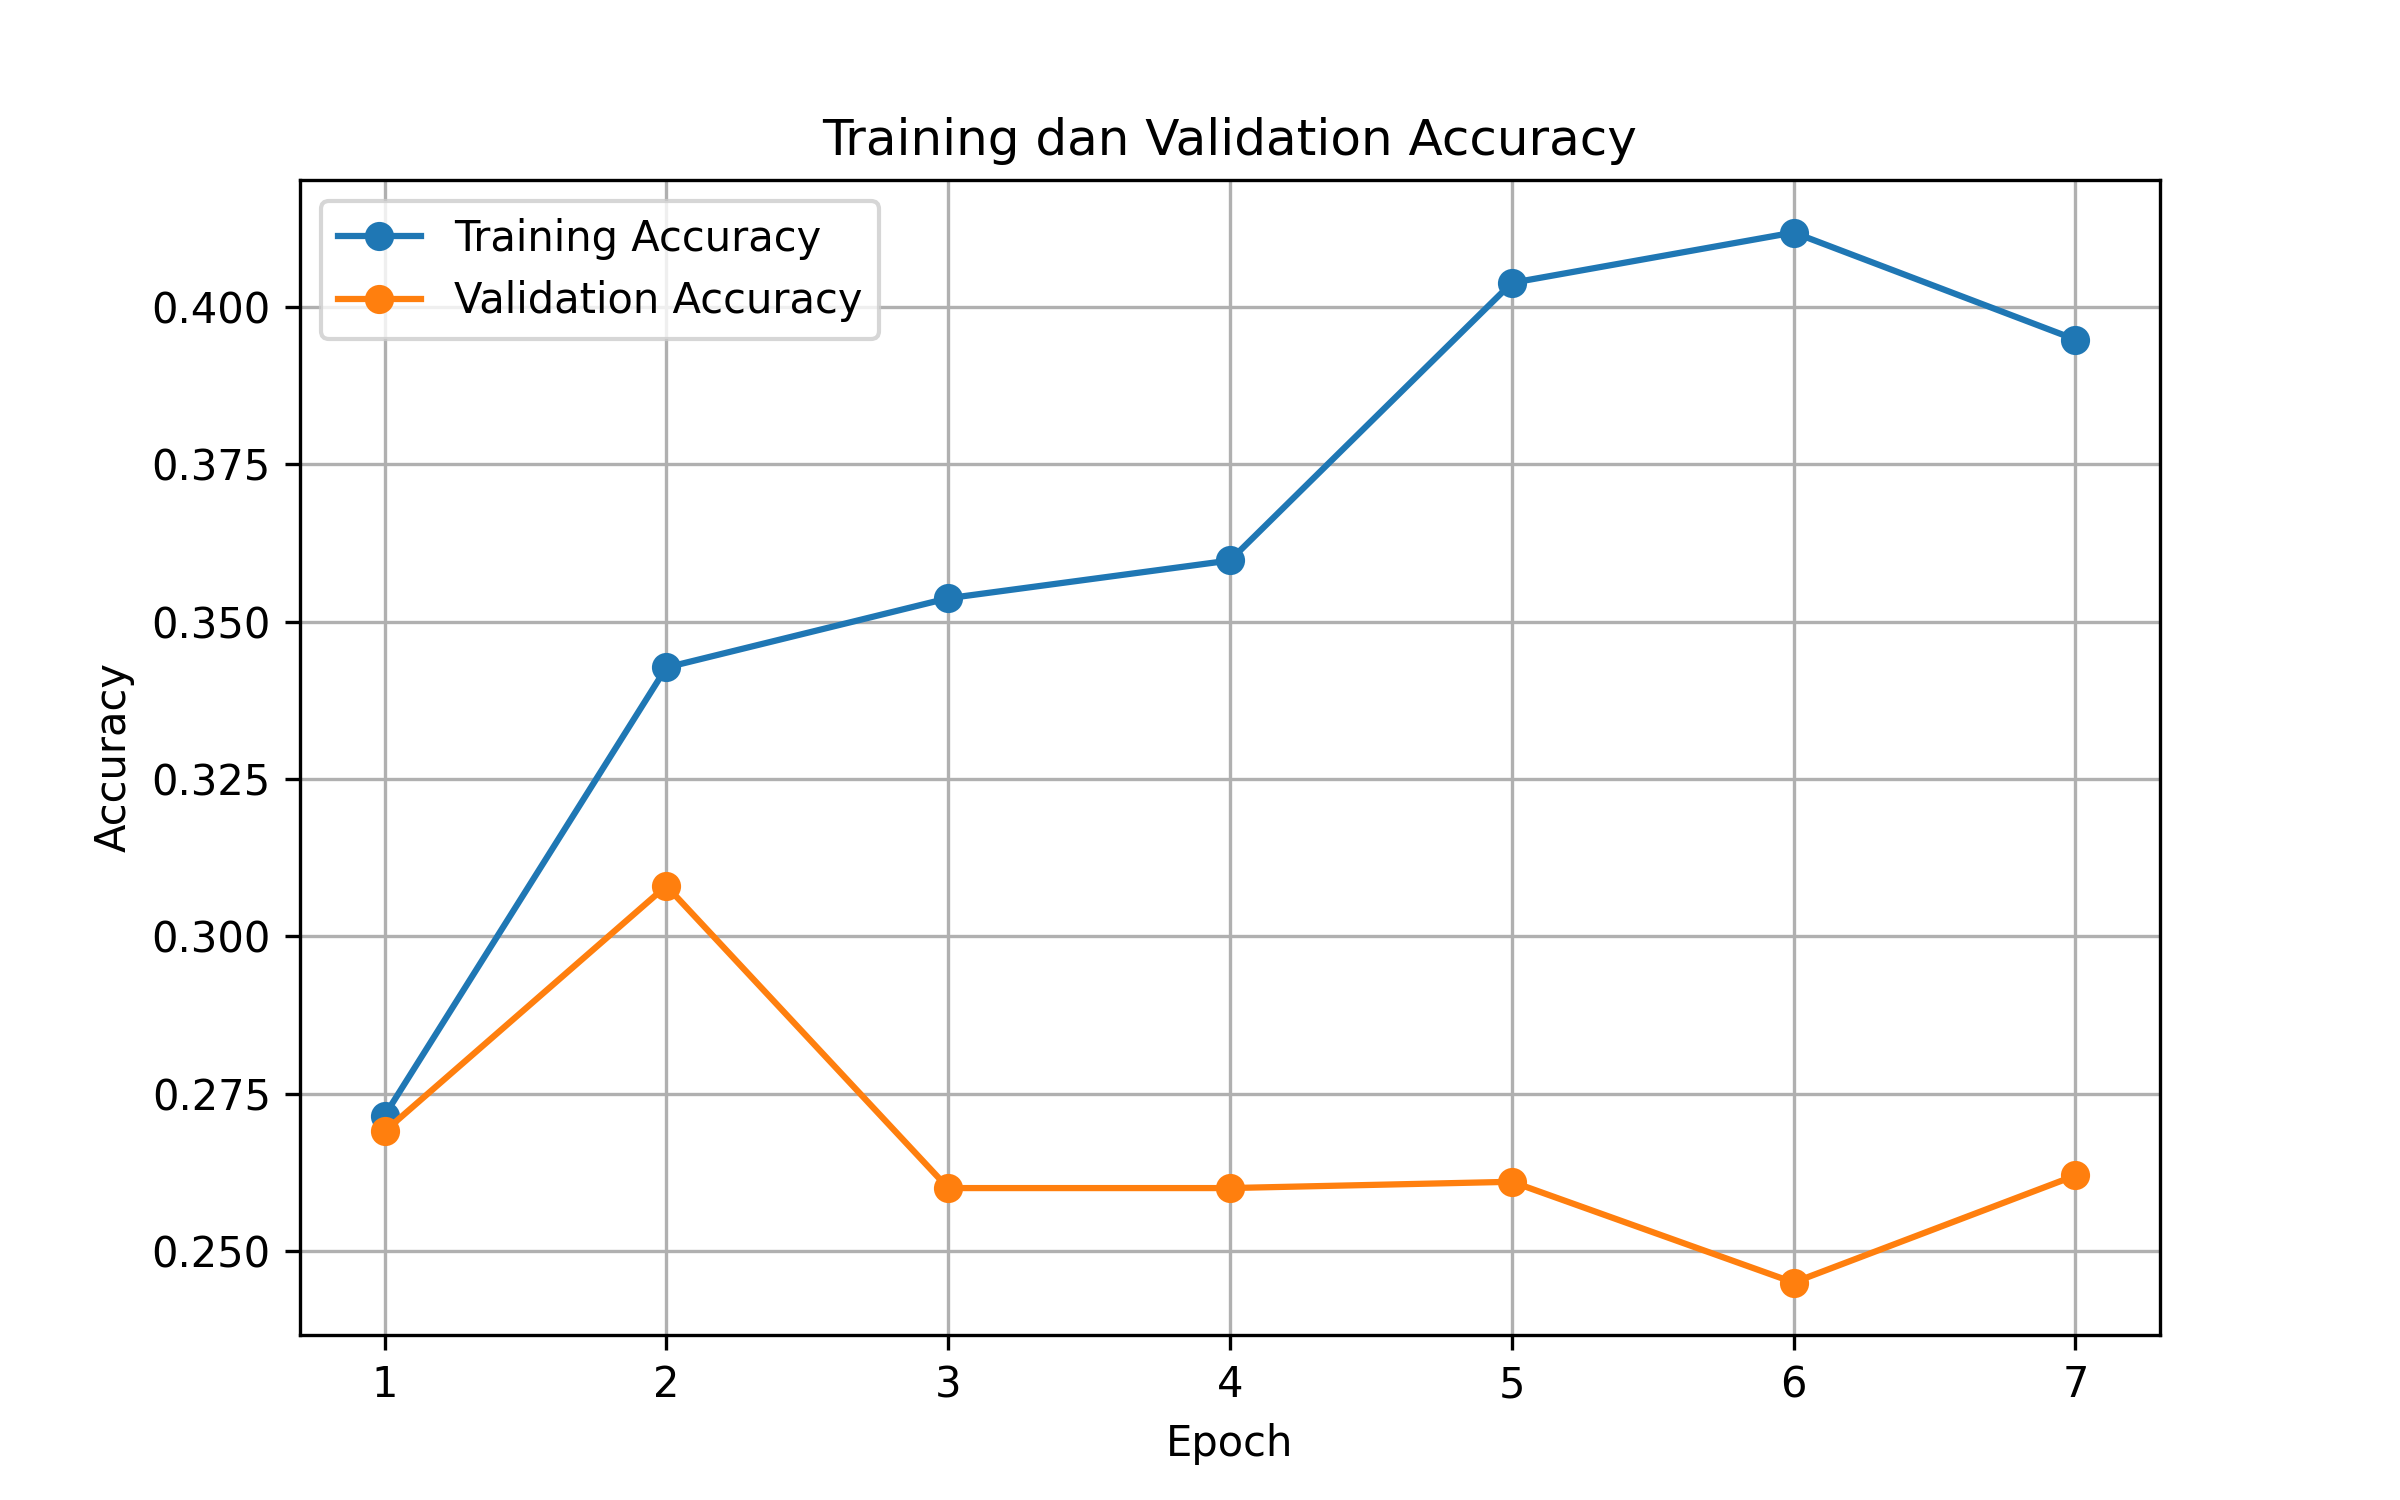
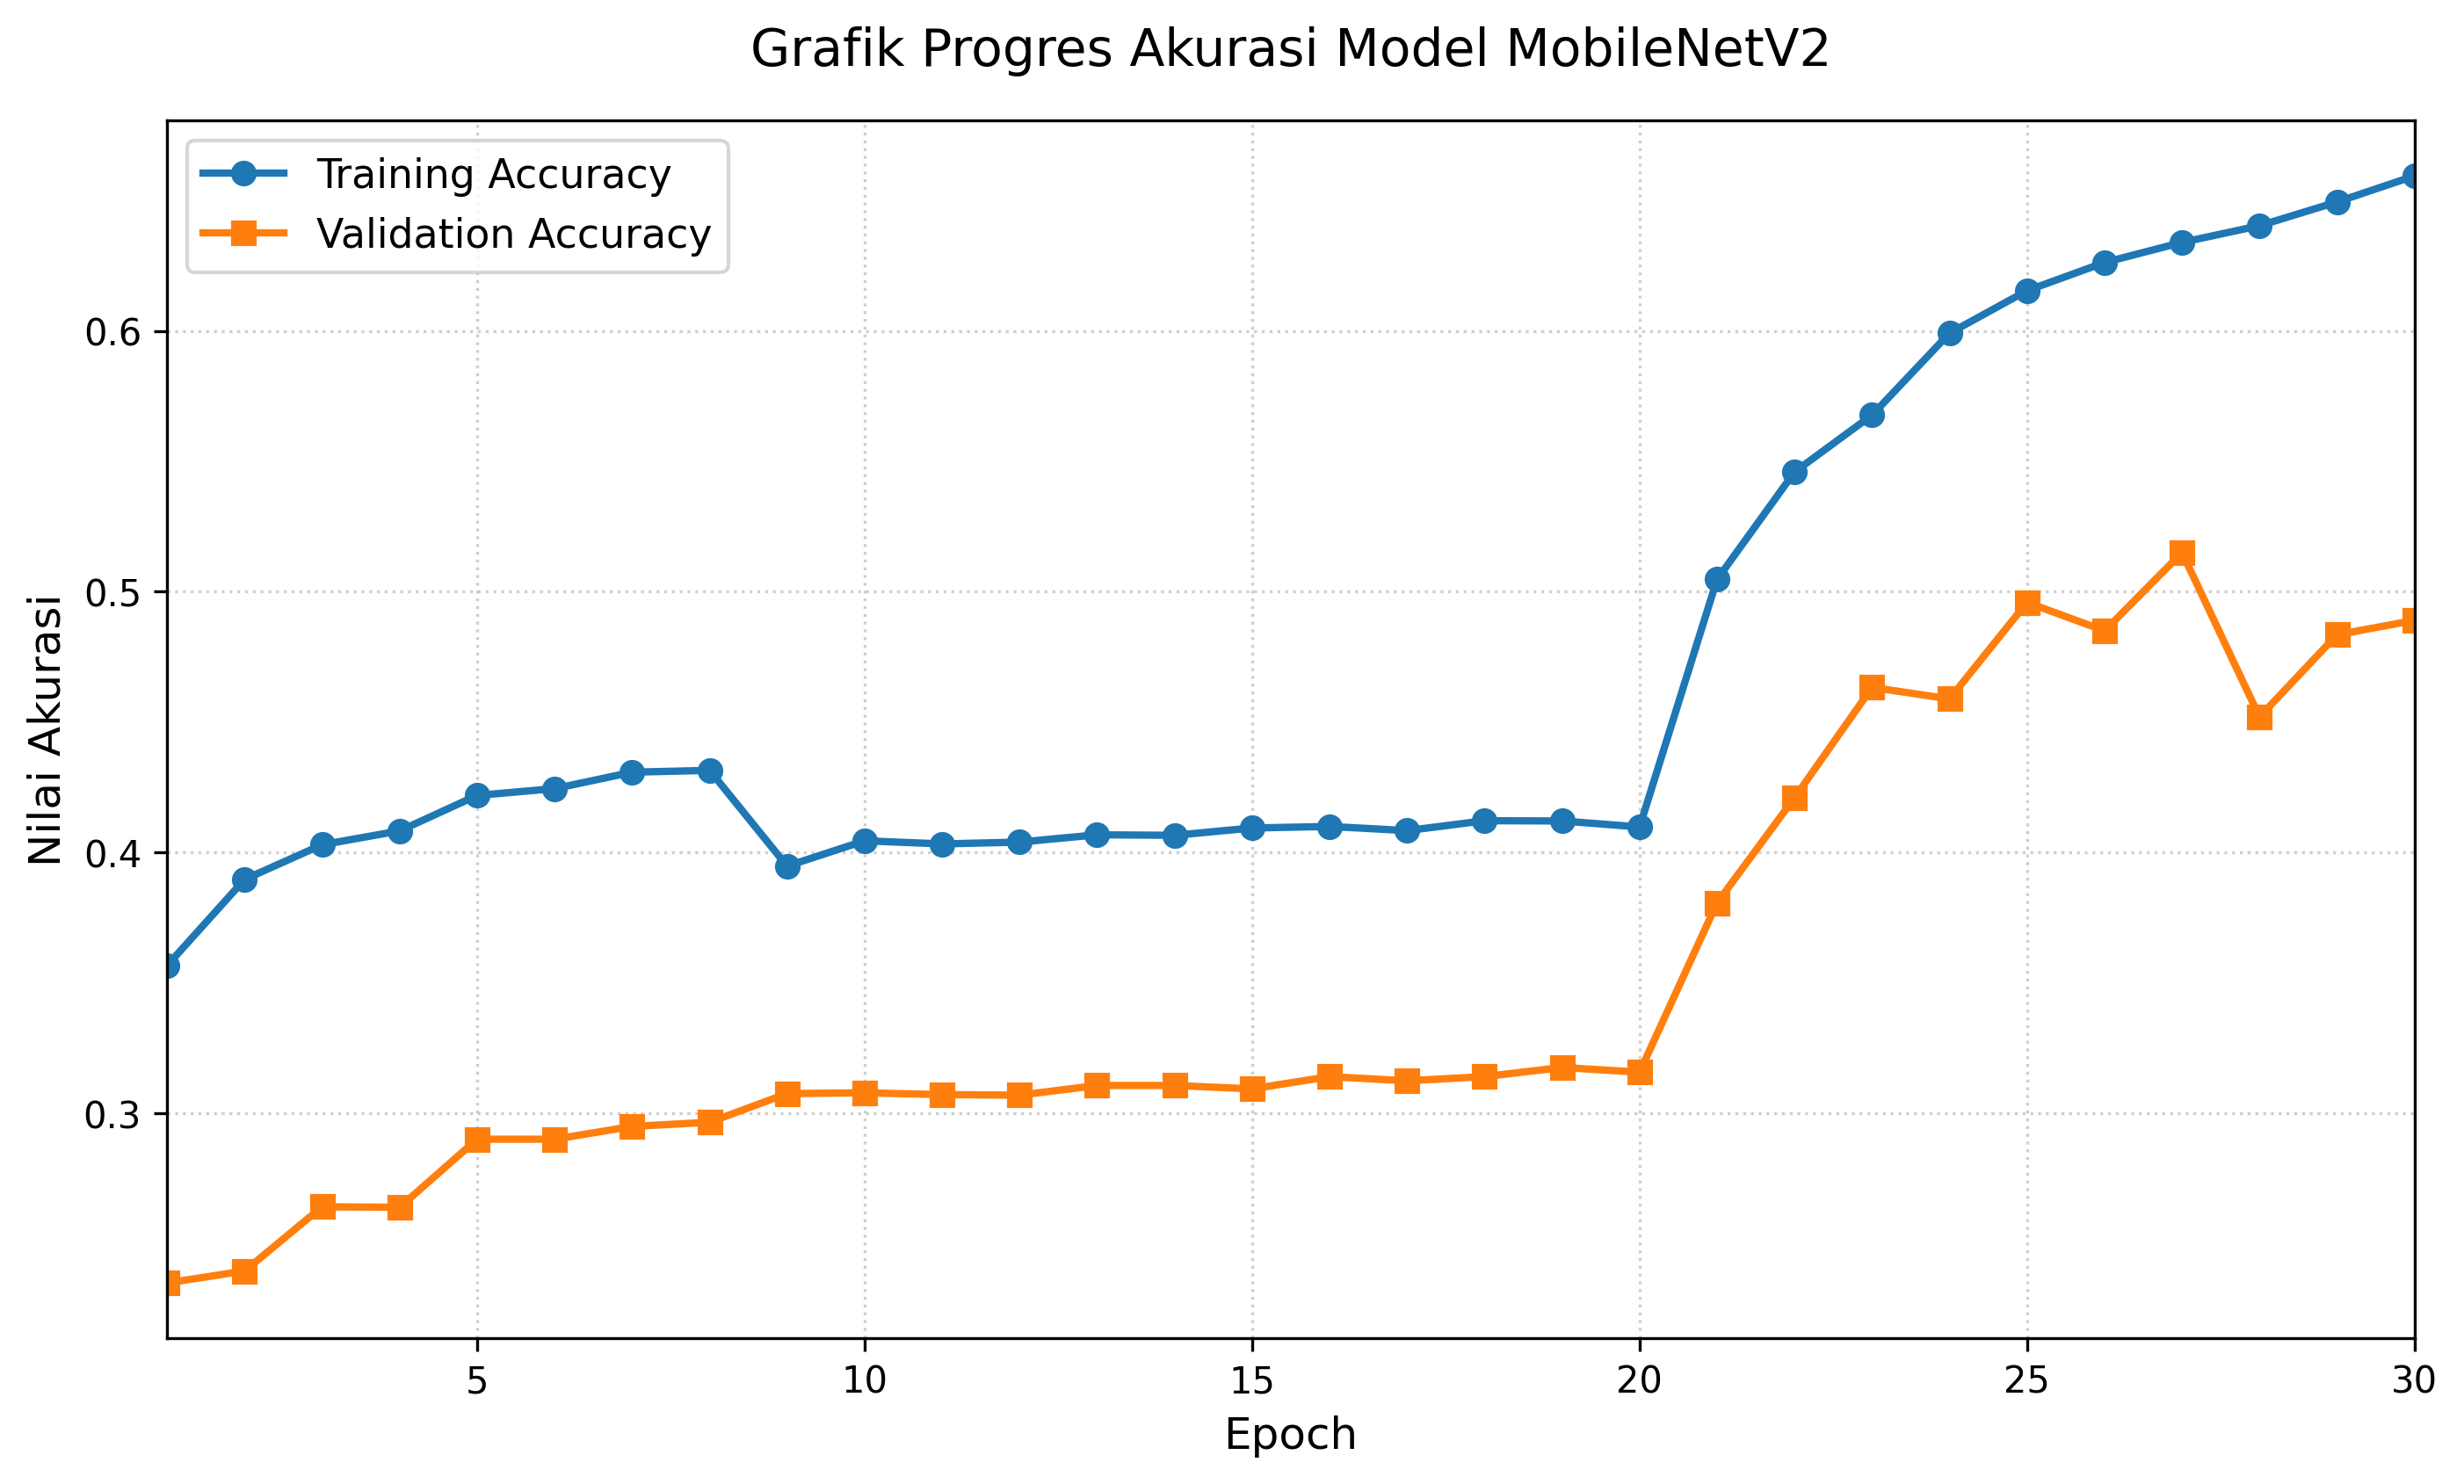
retrain model

diff --git a/plot_training.py b/plot_training.py
@@ -1,68 +1,68 @@
 import matplotlib.pyplot as plt
 
-# =========================
-# TRAIN HEAD
-# =========================
-epochs_head = [1, 2, 3, 4, 5, 6, 7]
+# =================================================================
+# DATA HISTORI TRAINING ASLI BERDASARKAN LOG TERBARU YOLANDA
+# =================================================================
 
-train_acc_head = [0.2715, 0.3427, 0.3537, 0.3597, 0.4038, 0.4118, 0.3948]
-val_acc_head   = [0.2690, 0.3080, 0.2600, 0.2600, 0.2610, 0.2450, 0.2620]
+# 30 Epoch penuh
+epochs = list(range(1, 31))
 
-train_loss_head = [1.5965, 1.3515, 1.3310, 1.2763, 1.2325, 1.1978, 1.1994]
-val_loss_head   = [1.3963, 1.3773, 1.4511, 1.4642, 1.5061, 1.5362, 1.4536]
+# Data Akurasi Latihan dan Validasi
+train_acc = [
+    0.3567, 0.3897, 0.4030, 0.4083, 0.4219, 0.4245, 0.4308, 0.4315, 0.3948, 0.4045,
+    0.4033, 0.4040, 0.4068, 0.4066, 0.4094, 0.4100, 0.4084, 0.4122, 0.4121, 0.4098,
+    0.5047, 0.5459, 0.5677, 0.5991, 0.6154, 0.6262, 0.6339, 0.6403, 0.6494, 0.6594
+]
 
-# =========================
-# ACCURACY GRAPH
-# =========================
-plt.figure(figsize=(8,5))
+val_acc = [
+    0.2350, 0.2396, 0.2642, 0.2640, 0.2901, 0.2901, 0.2950, 0.2966, 0.3076, 0.3079,
+    0.3072, 0.3070, 0.3107, 0.3107, 0.3094, 0.3141, 0.3125, 0.3141, 0.3176, 0.3158,
+    0.3807, 0.4210, 0.4633, 0.4589, 0.4959, 0.4850, 0.5150, 0.4520, 0.4835, 0.4890
+]
 
-plt.plot(
-    epochs_head,
-    train_acc_head,
-    marker='o',
-    label='Training Accuracy'
-)
+# Data Loss Latihan dan Validasi
+train_loss = [
+    1.4422, 1.2972, 1.2642, 1.2460, 1.2263, 1.2208, 1.2088, 1.2078, 1.2396, 1.2257,
+    1.2282, 1.2238, 1.2214, 1.2206, 1.2163, 1.2155, 1.2173, 1.2119, 1.2112, 1.2090,
+    1.0796, 0.9876, 0.9381, 0.8643, 0.8290, 0.8071, 0.7832, 0.7650, 0.7432, 0.7263
+]
 
-plt.plot(
-    epochs_head,
-    val_acc_head,
-    marker='o',
-    label='Validation Accuracy'
-)
+val_loss = [
+    1.5630, 1.5337, 1.4680, 1.4708, 1.4236, 1.4257, 1.4349, 1.4375, 1.3824, 1.3814,
+    1.3827, 1.3803, 1.3803, 1.3783, 1.3788, 1.3782, 1.3774, 1.3781, 1.3744, 1.3802,
+    1.6790, 1.3963, 1.4177, 1.3360, 1.2882, 1.3828, 1.2765, 1.5917, 1.5588, 1.5085
+]
 
-plt.title('Training dan Validation Accuracy')
-plt.xlabel('Epoch')
-plt.ylabel('Accuracy')
-plt.legend()
-plt.grid(True)
+# =================================================================
+# GRAFIK 1: PERKEMBANGAN AKURASI (ACCURACY) - BERSIH
+# =================================================================
+plt.figure(figsize=(11, 6))
+plt.plot(epochs, train_acc, color='#1f77b4', marker='o', linestyle='-', linewidth=2, label='Training Accuracy')
+plt.plot(epochs, val_acc, color='#ff7f0e', marker='s', linestyle='-', linewidth=2, label='Validation Accuracy')
 
-plt.savefig('accuracy.png', dpi=300)
+plt.title('Grafik Progres Akurasi Model MobileNetV2', fontsize=14, pad=15)
+plt.xlabel('Epoch', fontsize=12)
+plt.ylabel('Nilai Akurasi', fontsize=12)
+plt.legend(fontsize=11, loc='upper left')
+plt.grid(True, linestyle=':', alpha=0.6)
+plt.xlim(1, 30)
+
+plt.savefig('accuracy.png', dpi=300, bbox_inches='tight')
 plt.show()
 
-# =========================
-# LOSS GRAPH
-# =========================
-plt.figure(figsize=(8,5))
+# =================================================================
+# GRAFIK 2: PERKEMBANGAN TINGKAT ERROR (LOSS) - BERSIH
+# =================================================================
+plt.figure(figsize=(11, 6))
+plt.plot(epochs, train_loss, color='#1f77b4', marker='o', linestyle='-', linewidth=2, label='Training Loss')
+plt.plot(epochs, val_loss, color='#ff7f0e', marker='s', linestyle='-', linewidth=2, label='Validation Loss')
 
-plt.plot(
-    epochs_head,
-    train_loss_head,
-    marker='o',
-    label='Training Loss'
-)
+plt.title('Grafik Progres Loss Model MobileNetV2', fontsize=14, pad=15)
+plt.xlabel('Epoch', fontsize=12)
+plt.ylabel('Nilai Loss', fontsize=12)
+plt.legend(fontsize=11, loc='upper right')
+plt.grid(True, linestyle=':', alpha=0.6)
+plt.xlim(1, 30)
 
-plt.plot(
-    epochs_head,
-    val_loss_head,
-    marker='o',
-    label='Validation Loss'
-)
-
-plt.title('Training dan Validation Loss')
-plt.xlabel('Epoch')
-plt.ylabel('Loss')
-plt.legend()
-plt.grid(True)
-
-plt.savefig('loss.png', dpi=300)
+plt.savefig('loss.png', dpi=300, bbox_inches='tight')
 plt.show()

diff --git a/train_model_v2.py b/train_model_v2.py
@@ -89,6 +89,8 @@ def load_image(path, label):
 
     image = preprocess_input(image)
 
+    label = tf.one_hot(label, depth=len(CLASS_NAMES))
+
     return image, label
 
 # =========================
@@ -200,8 +202,8 @@ outputs = Dense(len(CLASS_NAMES), activation="softmax")(x)
 model = Model(inputs, outputs)
 
 model.compile(
-    optimizer=tf.keras.optimizers.Adam(learning_rate=0.0005),
-    loss="sparse_categorical_crossentropy",
+    optimizer=tf.keras.optimizers.Adam(learning_rate=0.00002), 
+    loss="categorical_crossentropy",
     metrics=["accuracy"]
 )
 
@@ -259,8 +261,8 @@ for layer in base_model.layers[:-30]:
     layer.trainable = False
 
 model.compile(
-    optimizer=tf.keras.optimizers.Adam(learning_rate=0.00005),
-    loss="sparse_categorical_crossentropy",
+    optimizer=tf.keras.optimizers.Adam(learning_rate=0.0002),
+    loss="categorical_crossentropy",
     metrics=["accuracy"]
 )
 

diff --git a/test_model.py b/test_model.py
@@ -14,7 +14,7 @@ CLASS_NAMES = [
 
 model = load_model(MODEL_PATH)
 
-img_path = "16.jpg" 
+img_path = "images/14.jpg" 
 
 img = cv2.imread(img_path)
 